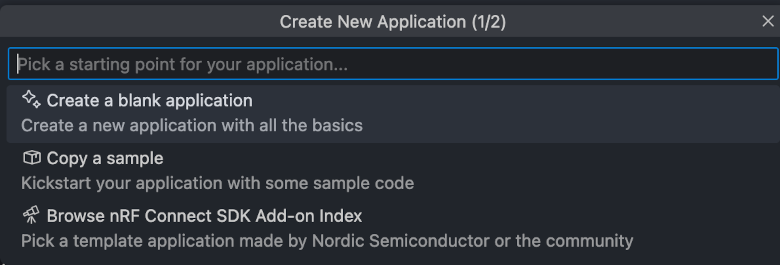
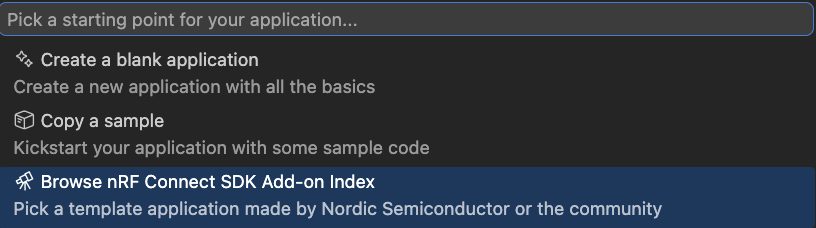
docs: update getting started and release documentation
Remove the "Quick Start" section from `README.md` and `docs/index.md`,
and add the pre-built binary download info into the "Get started"
section.

Update `docs/common/getting_started.md` to reflect the current
VS Code extension UI labels (e.g. `Add build configuration`, `Start new
terminal`).

Add a "Downloading releases" section to `docs/common/release.md`
with a direct link and instructions. Update screenshots `addon_att.png`
and `create_new_app.png`, and remove unused images `actions.png` and
`historical_data.png`.

diff --git a/docs/common/getting_started.md b/docs/common/getting_started.md
@@ -16,28 +16,30 @@ For pre-built binaries that do not require a build environment, refer to the lat
 
 ## Option 1: nRF Connect for VS Code (Recommended)
 
-1. In nRF Connect for VS Code, the Asset Tracker Template is available as an add-on in the **Create New Application** menu:
+1. Open the **nRF Connect** extension panel from the VS Code activity bar.
 
-    ![Create New Application menu](../images/create_new_app.png)
+1. Under the **Welcome** section of the extension panel, click **Create a new application**:
 
-1. Select the **Browse nRF Connect SDK add-on Index** option and search for **Asset Tracker Template**.
+    ![nRF Connect extension panel with Create a new application](../images/create_new_app.png)
+
+1. In the application picker, select the **Browse nRF Connect SDK add-on Index** option and search for **Asset Tracker Template**:
 
     ![Asset Tracker Template add-on](../images/addon_att.png)
 
-1. Once the project is created, it appears under **Applications** in the nRF Connect for VS Code side panel. Click **Add Build Configuration** under the **app** entry (or use the **Add Build Configuration** button under **Build**) to open the build configuration dialog.
+1. Once the project is created, it appears under **Applications** in the extension panel. Click **Add build configuration** under the **app** entry (or use the **Add build configuration** button under **Build**) to open the build configuration dialog.
 
-1. In the **Add Build Configuration (app)** dialog, set **Board target**. With the **Compatible** filter selected (the default), only the supported build targets are listed:
+1. In the **Add build configuration (app)** dialog, set **Board target**. With the **Compatible** filter selected (the default), only the supported build targets are listed:
 
     | Board        | Board target            |
     | ------------ | ----------------------- |
     | Thingy:91 X  | `thingy91x/nrf9151/ns`  |
     | nRF9151 DK   | `nrf9151dk/nrf9151/ns`  |
 
-    Leave the other fields at their defaults and click **Generate and Build** to build the application.
+    Leave the other fields at their defaults and click **Generate and build** to build the application.
 
-1. After the build completes, the **Actions** panel is populated with options such as **Build**, **Flash**, **Debug**, **nRF Kconfig GUI**, and **Memory Report**. Use these to flash, debug, and reconfigure the application.
+1. After the build completes, the **Actions** panel is populated with options such as **Build**, **Flash**, **Debug**, **nRF Kconfig GUI**, and **Memory report**. Use these to flash, debug, and reconfigure the application.
 
-1. To run command-line tools such as `west` or `nrfutil`, right-click the **app** entry under **Applications** and select **Start New Terminal**. This opens a shell in the toolchain environment, with all the nRF Connect SDK tools available on `PATH`.
+1. To run command-line tools such as `west` or `nrfutil`, right-click the **app** entry under **Applications** and select **Start new terminal**. This opens a shell in the toolchain environment, with all the nRF Connect SDK tools available on `PATH`.
 
 > [!NOTE]
 > The built-in **Flash** action programs the device through an external debugger. **Thingy:91 X** does not have an on-board debugger, so without an external J-Link attached you need to flash it over the serial bootloader. In the terminal opened in the previous step, run:
@@ -53,7 +55,7 @@ For pre-built binaries that do not require a build environment, refer to the lat
 > ```
 
 > [!NOTE]
-> When flashing through an external debugger (nRF9151 DK, or Thingy:91 X with a J-Link attached), use the **Erase and Flash to Board** icon next to **Flash** in the **Actions** panel, not the default **Flash** action. The default action does not erase UICR and fails with a UICR error when the new firmware writes different UICR contents.
+> When flashing through an external debugger (nRF9151 DK, or Thingy:91 X with a J-Link attached), use the **Erase and flash to board** icon next to **Flash** in the **Actions** panel, not the default **Flash** action. The default action does not erase UICR and fails with a UICR error when the new firmware writes different UICR contents.
 
 For more details on how to use the nRF Connect for VS Code, refer to the [nRF Connect for VS Code documentation](https://docs.nordicsemi.com/bundle/nrf-connect-vscode/page/index.html).
 

diff --git a/docs/index.md b/docs/index.md
@@ -17,15 +17,11 @@ If you are new to nRF91 series and cellular IoT, consider taking the [Nordic Dev
   <em>Thingy:91 X reporting its location to nRF Cloud running the Asset Tracker Template</em>
 </p>
 
-## Quick Start
-
-The fastest way to get started is to download and run the [Quick Start app](https://docs.nordicsemi.com/bundle/nrf-connect-quickstart/page/index.html) in [nRF Connect for Desktop](https://www.nordicsemi.com/Software-and-Tools/Development-Tools/nRF-Connect-for-desktop). It provides a guided setup and provisioning process that gets your device connected to [nRF Cloud](https://nrfcloud.com) in minutes.
-
-Alternatively, you can download pre-built firmware binaries from the [latest release](https://github.com/nrfconnect/Asset-Tracker-Template/releases) and flash them directly to your device. See the [release artifacts](common/release.md) documentation for details.
-
 ## Get started
 
 To set up your development environment, build the application, flash it to your device, and connect it to [nRF Cloud](https://nrfcloud.com), follow the [Getting Started](common/getting_started.md) guide.
+
+If you do not need a build environment, you can download pre-built firmware binaries from the [latest release](https://github.com/nrfconnect/Asset-Tracker-Template/releases) and flash them directly to your device. See the [release artifacts](common/release.md) documentation for details.
 
 ## System Overview
 

diff --git a/README.md b/README.md
@@ -33,16 +33,11 @@ If you are new to nRF91 series and cellular IoT, consider taking the [Nordic Dev
 
 ---
 
-## Quick Start
-
-> [!TIP]
-> The fastest way to get started is to download and run the [Quick Start app](https://docs.nordicsemi.com/bundle/nrf-connect-quickstart/page/index.html) in [nRF Connect for Desktop](https://www.nordicsemi.com/Software-and-Tools/Development-Tools/nRF-Connect-for-desktop). It provides a guided setup and provisioning process that gets your device connected to [nRF Cloud](https://nrfcloud.com) in minutes.
-
-Alternatively, you can download pre-built firmware binaries from the [latest release](https://github.com/nrfconnect/Asset-Tracker-Template/releases) and flash them directly to your device. See the [release artifacts](docs/common/release.md) documentation for details.
-
 ## Get started
 
 To set up your development environment, build the application, flash it to your device, and connect it to [nRF Cloud](https://nrfcloud.com), follow the [Getting Started](docs/common/getting_started.md) guide.
+
+If you do not need a build environment, you can download pre-built firmware binaries from the [latest release](https://github.com/nrfconnect/Asset-Tracker-Template/releases) and flash them directly to your device. See the [release artifacts](docs/common/release.md) documentation for details.
 
 ---
 

diff --git a/docs/common/release.md b/docs/common/release.md
@@ -3,6 +3,14 @@
 This document provides a comprehensive overview of all firmware deliverables and artifacts generated by the Asset Tracker Template.
 Each firmware variant is optimized for specific use cases and hardware platforms.
 
+## Downloading releases
+
+Pre-built firmware binaries and release notes are published on the project's GitHub releases page:
+
+[https://github.com/nrfconnect/Asset-Tracker-Template/releases](https://github.com/nrfconnect/Asset-Tracker-Template/releases)
+
+Pick the firmware that matches your hardware platform and desired configuration from the tables below, download it from the release page, and flash it to your device with `west` or `nrfutil`.
+
 ## Firmware deliverables
 
 The Asset Tracker Template generates multiple firmware artifacts for different hardware platforms and configurations. Each artifact is built to serve specific development, testing, or production needs.
